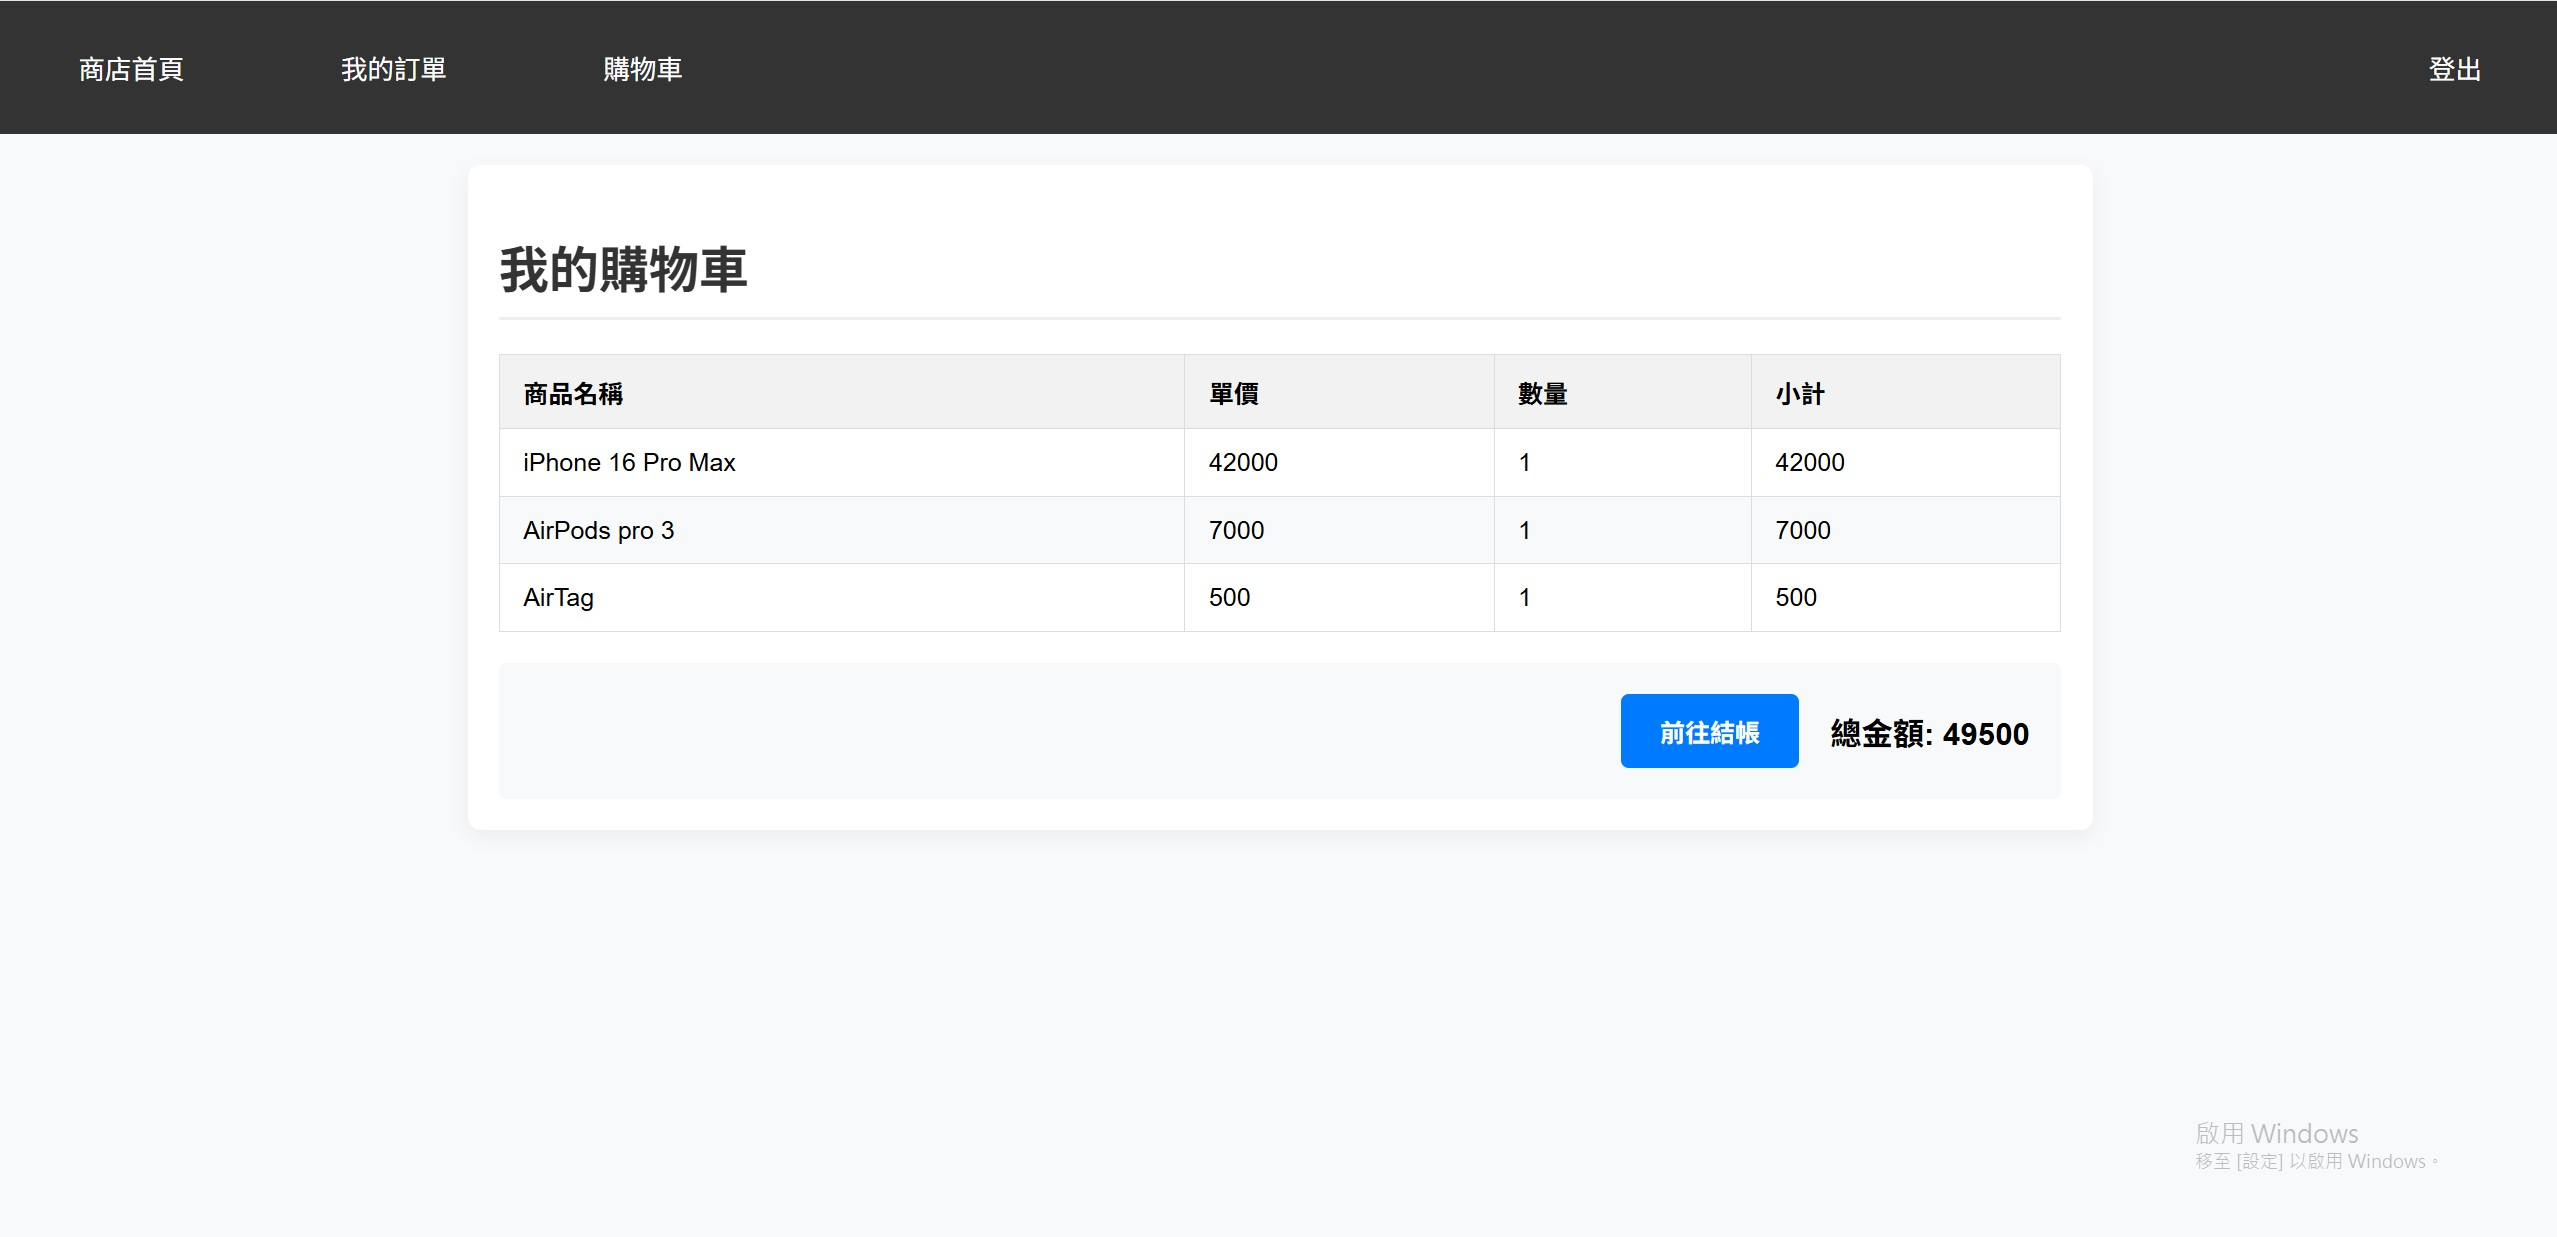
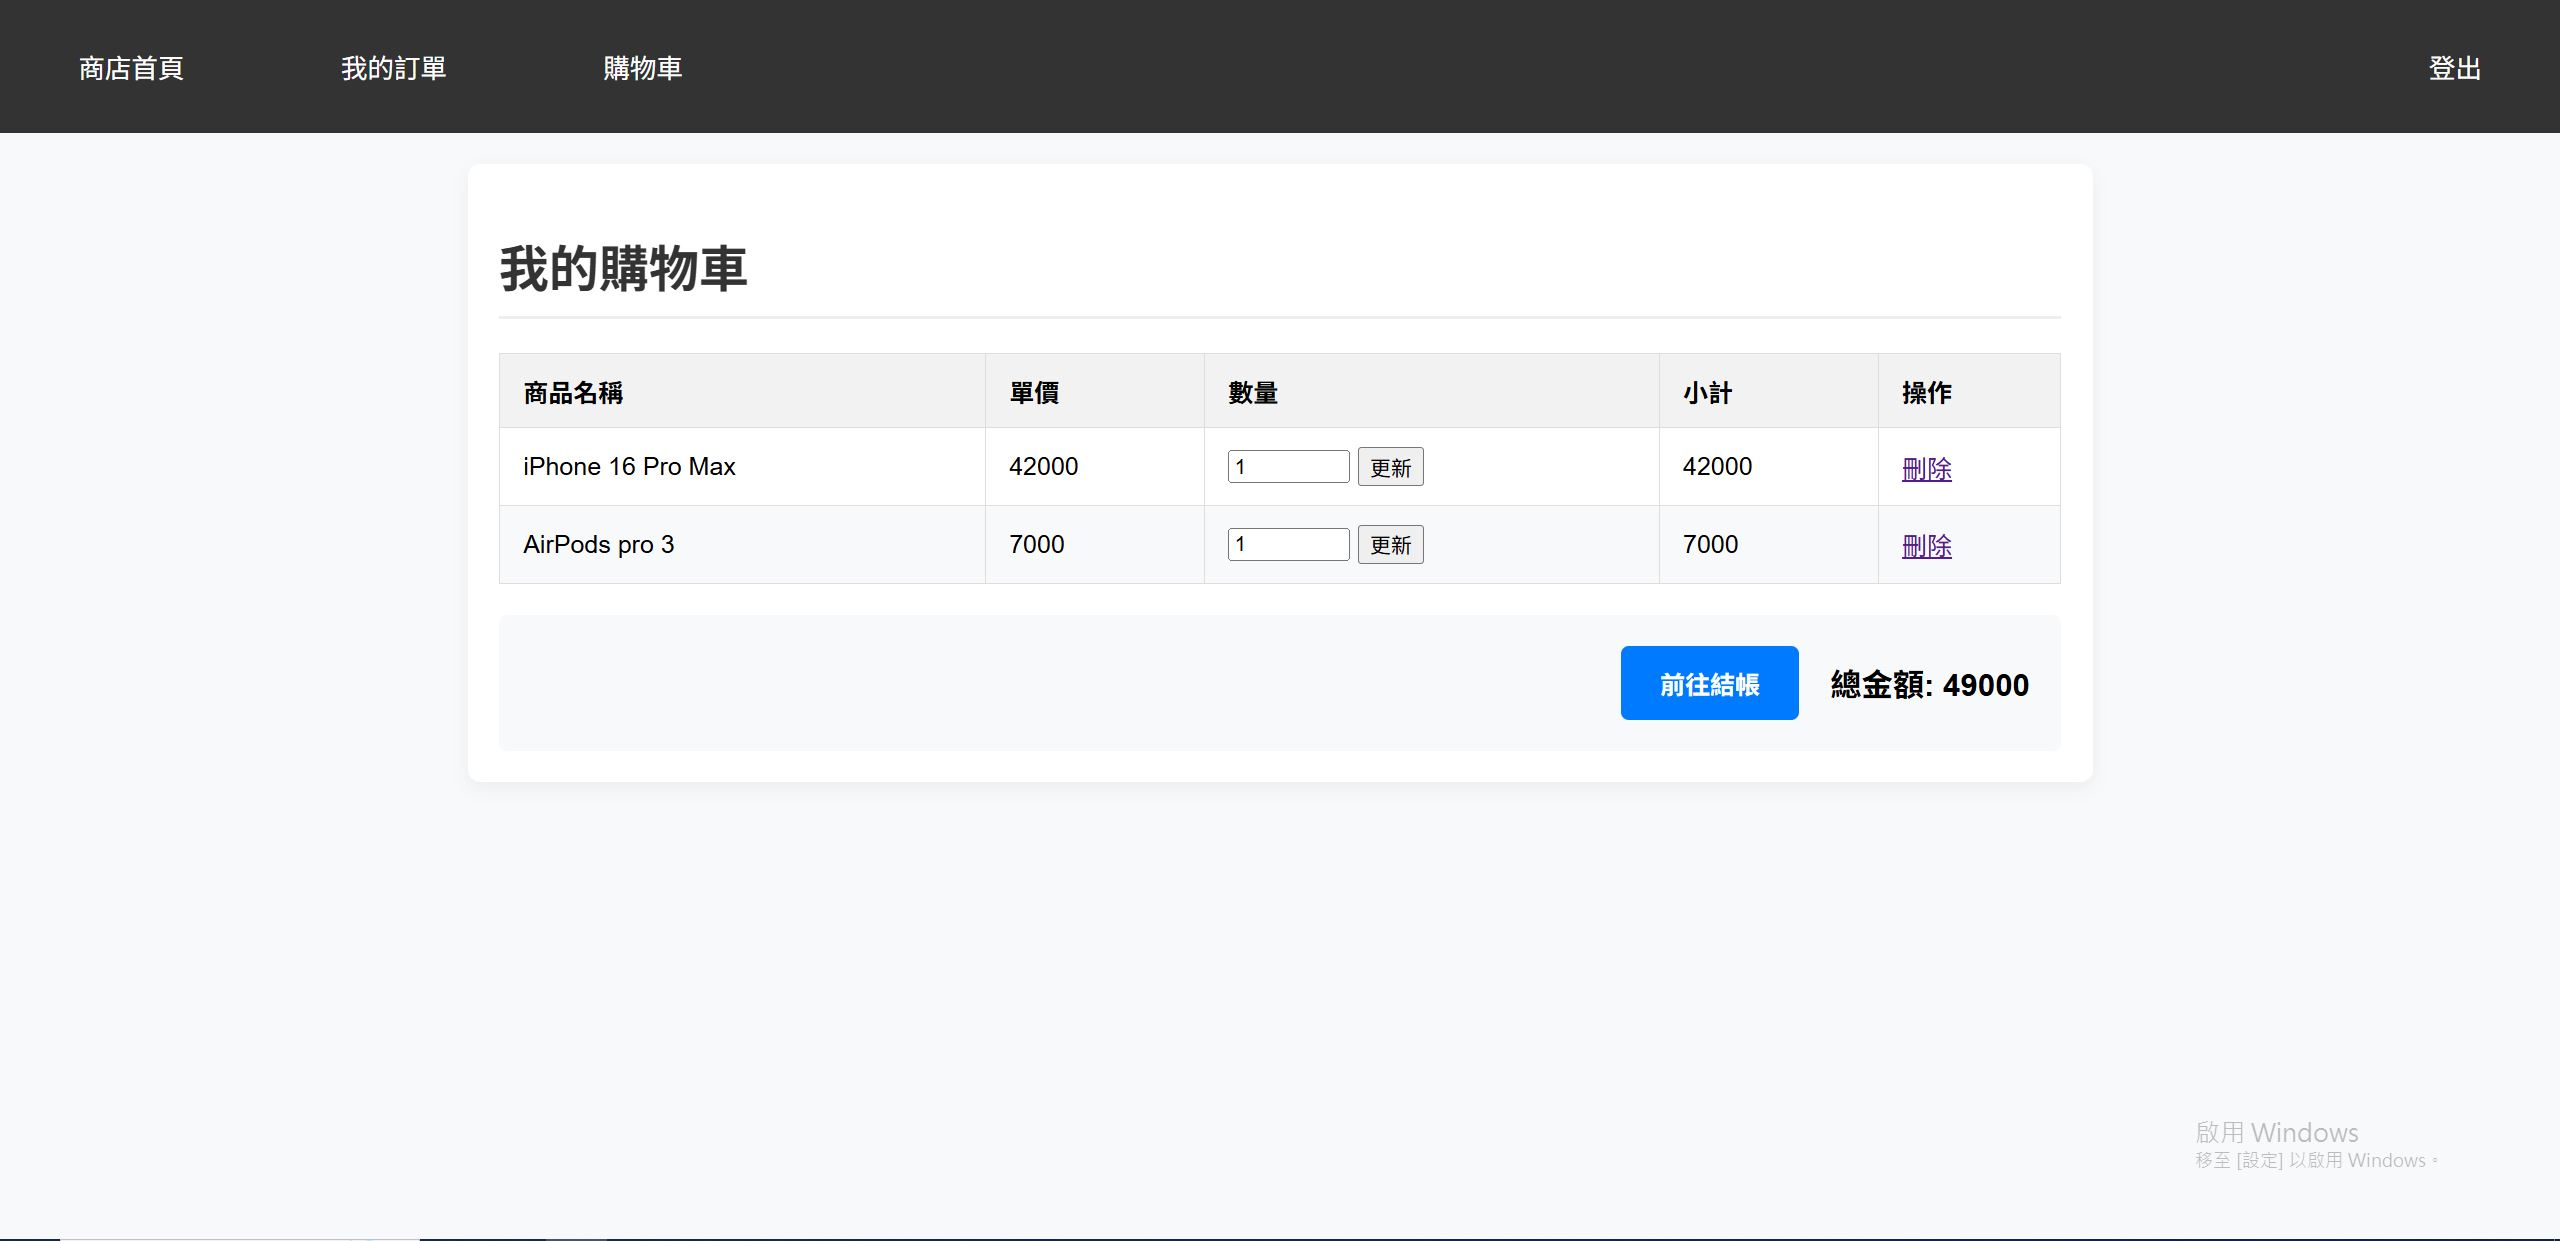
Feat: 完成購物車修改數量功能與庫存檢查

diff --git a/src/main/resources/templates/cart.html b/src/main/resources/templates/cart.html
@@ -80,14 +80,33 @@
                 <th>單價</th>
                 <th>數量</th>
                 <th>小計</th>
+                <th>操作</th>
             </tr>
             </thead>
             <tbody>
             <tr th:each="item : ${cart.items.values()}">
                 <td th:text="${item.productName}">iPhone 16</td>
                 <td th:text="${item.price}">45000</td>
-                <td th:text="${item.quantity}">1</td>
-                <td th:text="${item.getSubtotal()}">45000</td>
+                <td>
+                    <form th:action="@{/cart/update}" method="post" style="display: flex; align-items: center;">
+
+                        <input type="hidden" name="productId" th:value="${item.productId}">
+
+                        <input type="number" name="quantity" th:value="${item.quantity}"
+                               min="1" class="form-control form-control-sm"
+                               style="width: 70px; margin-right: 5px;">
+
+                        <button type="submit" class="btn btn-sm btn-outline-primary" title="更新數量">
+                            <i class="fas fa-sync-alt"></i> 更新
+                        </button>
+                    </form>
+                </td>                <td th:text="${item.getSubtotal()}">45000</td>
+                <td>
+                    <a th:href="@{/cart/remove(id=${item.productId})}"
+                       onclick="return confirm('確定要移除這個商品嗎？');">
+                        <i></i> 刪除
+                    </a>
+                </td>
             </tr>
             </tbody>
         </table>

diff --git a/src/main/java/com/shopping/demo/Controller/CartController.java b/src/main/java/com/shopping/demo/Controller/CartController.java
@@ -74,8 +74,50 @@ public class CartController {
             redirectAttributes.addFlashAttribute("errorMessage", "庫存不足！(目前庫存:"+product.getStock() +")");
         }
 
-        session.setAttribute("cart", cart);
+        session.setAttribute("cart",  cart);
         return "redirect:/productlist";
+    }
+
+
+
+    @GetMapping("/cart/remove")
+    public String removeFromCart(@RequestParam("id")Integer id,HttpSession session) {
+        CartDTO cart=(CartDTO) session.getAttribute("cart");
+
+        if (cart != null && cart.getItems() != null) {
+
+            cart.getItems().remove(id);
+
+    }
+         return "redirect:/cart";
+    }
+
+    @PostMapping("/cart/update")
+    public String updateCart(@RequestParam("productId")Integer productId,
+                             @RequestParam("quantity")Integer quantity,
+                             HttpSession session,
+                             RedirectAttributes redirectAttributes){
+        Optional<Product> currentproduct=productService.getProductById(productId);
+
+        if (currentproduct.isEmpty()) {
+            redirectAttributes.addFlashAttribute("errorMessage", "商品不存在！");
+            return "redirect:/cart";
+        }
+
+        Product product=currentproduct.get();
+        CartDTO cart = (CartDTO) session.getAttribute("cart");
+        if (cart != null && cart.getItems() != null) {
+        if(quantity>product.getStock()) {
+            redirectAttributes.addFlashAttribute("errorMessage",
+                    "庫存不足！目前剩餘數量：" + product.getStock());
+        }else {
+            CartItemDTO item=cart.getItems().get(productId);
+            if (item != null) {
+                item.setQuantity(quantity);
+            }
+            }
+        }
+        return "redirect:/cart";
     }
 
     @GetMapping("/cart")
@@ -88,5 +130,7 @@ public class CartController {
 
         return "cart";
     }
+
+
 }
 
